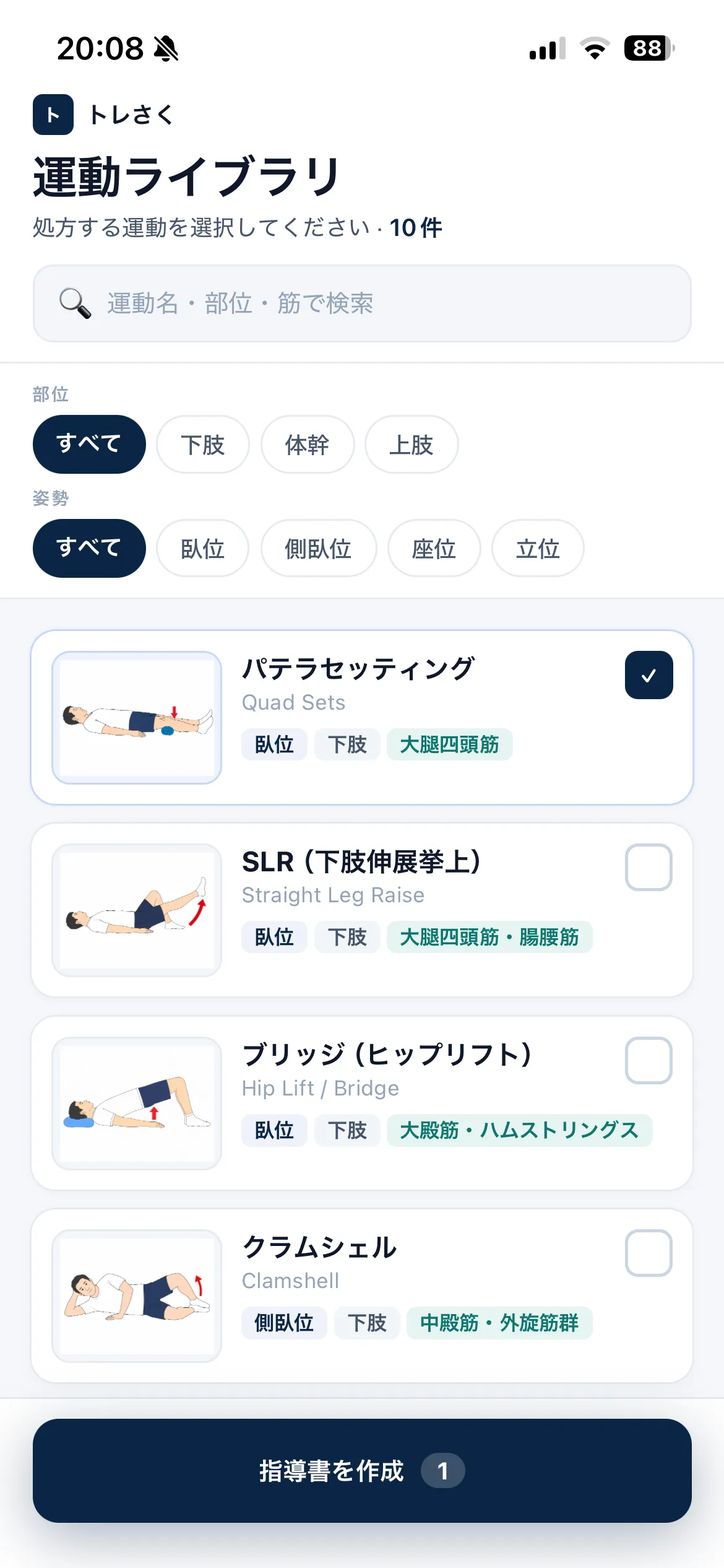
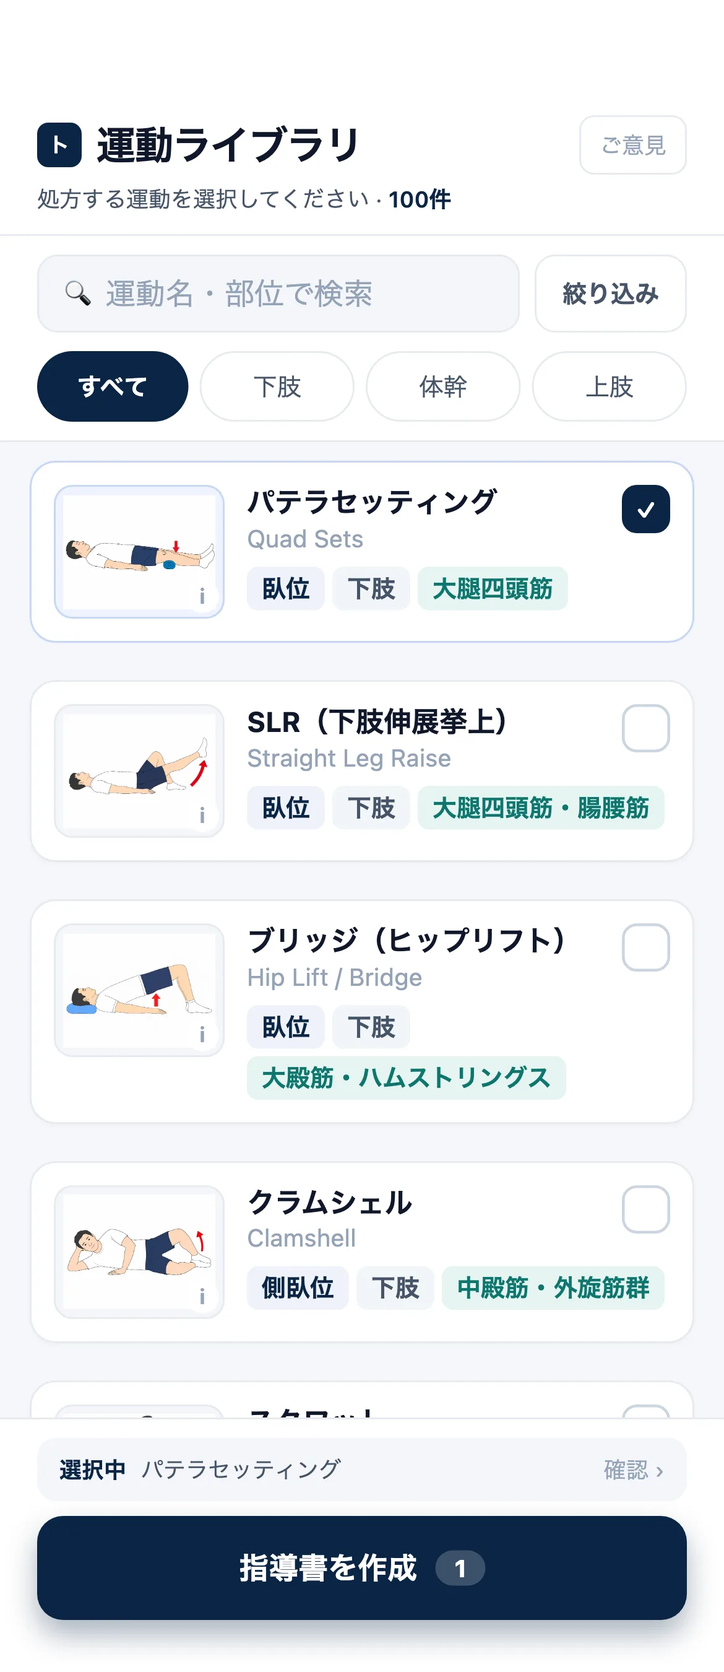
LP を改善し、スクショを現行 UI に撮り直した
医療系 LP の規範（一次情報調査）と、導入した landing-page-copy /
design-standards / accessibility-audit スキルに沿って LP を見直した。
基調デザイン（明朝 × teal × cream）は医療系の王道に合致しているため維持。

事実整合:
- 運動数の表記を実数の「100種類」に統一。本文は「50種類以上」と過小、
  JSON-LD は「100種類以上」と過大で、両方バラバラだった
- スクショが 2026-04-23 のままで「22件」「10件」と表示されており、
  ヒーロー直下に出した「100種類」と目立つ場所で矛盾していた
- deploy-web.yml 側の JSON-LD・llms.txt も同時に修正（二重保持のため）

コピー:
- 社会的証明バンドを新設（100種類 / 3ステップ / 現役 PT 開発 / 0円）。
  治療効果ではなく業務指標で語る
- 「最短3分」は計測しておらず根拠がないため全削除し、プロダクト構造の
  事実である「3ステップ」に置き換えた
- 効能・保証・予防を示唆する表現を事実ベースに修正
  （エビデンスに基づき安全に / 転倒予防 / 紙面で伝わります）

デザイン・A11y:
- 特徴カードの 6 色パステルアイコンを teal 単色に統一（DESIGN.md 準拠）
- 3 ステップの 1 番だけに付いていた選択済みの見た目を削除。クリックできない
  のに選べるリストに見えていた
- 見出し階層を修正（h2 導入 + 統計バンドに sr-only 見出し）
- FAQ を button 化し aria-expanded を同期、inline onclick を全廃
- prefers-reduced-motion 全面対応、focus-visible、CTA を 44px 高に
- App Store バッジの絶対パスを相対パスに（ローカルで 404 になっていた）

スクショ撮影の再現手順:
- scripts/shoot-lp-screenshots.cjs + lp-shots.json を追加。ヘッドレス
  Chrome を CDP で操作して Web 版から 3 枚撮る
- 加工・差し替え手順は docs/dev-notes.md に記載

未解決として plan.md に起票:
- iOS シミュレータ向けビルドが ReactCodegen のモジュール解決で失敗する
  （スクショは Web 版から撮って回避）

diff --git a/public/lp.html b/public/lp.html
@@ -25,7 +25,7 @@
 <meta name="twitter:description" content="医療・介護の現場で使える自主トレ指導書作成アプリ。完全無料・アカウント不要。"/>
 <meta name="twitter:image" content="https://toresaku-app.github.io/web/assets/og-image.png"/>
 <script type="application/ld+json">{"@context":"https://schema.org","@type":"SoftwareApplication","name":"トレさく","description":"医療・介護の現場で使える自主トレ指導書作成アプリ","url":"https://toresaku-app.github.io/web/","applicationCategory":"HealthApplication","operatingSystem":"Web, iOS","offers":{"@type":"Offer","price":"0","priceCurrency":"JPY"},"inLanguage":"ja","isAccessibleForFree":true}</script>
-<script type="application/ld+json">{"@context":"https://schema.org","@type":"FAQPage","mainEntity":[{"@type":"Question","name":"トレさくとは？","acceptedAnswer":{"@type":"Answer","text":"医療・介護の現場で使える自主トレ指導書作成アプリです。運動を選んで回数・セットを設定するだけで、イラスト付きA4指導書をPDF出力できます。"}},{"@type":"Question","name":"利用料金はかかりますか？","acceptedAnswer":{"@type":"Answer","text":"完全無料です。アカウント登録も不要で、すぐにお使いいただけます。"}},{"@type":"Question","name":"患者データはどうなりますか？","acceptedAnswer":{"@type":"Answer","text":"指導書に入力した内容と作成したPDFは、お使いの端末内で処理され、外部へ自動送信されません。Web版では、サービス改善のため、プライバシーポリシーに記載した利用状況をGoogleアナリティクスへ送信します。iOSアプリ版はアクセス解析を使用していません。"}},{"@type":"Question","name":"どのような運動が収録されていますか？","acceptedAnswer":{"@type":"Answer","text":"下肢・体幹・上肢の筋トレ・ストレッチを中心に100種類の運動を収録。パテラセッティング、SLR、ブリッジ、スクワットなど臨床で頻用される運動が揃っています。"}},{"@type":"Question","name":"オフラインで使えますか？","acceptedAnswer":{"@type":"Answer","text":"はい。インターネット接続がなくても全機能をお使いいただけます。"}},{"@type":"Question","name":"どの端末で使えますか？","acceptedAnswer":{"@type":"Answer","text":"Web版はPC・スマホのブラウザからご利用いただけます。iOSアプリはApp Storeで配信中です。"}}]}</script>
+<script type="application/ld+json">{"@context":"https://schema.org","@type":"FAQPage","mainEntity":[{"@type":"Question","name":"トレさくとは？","acceptedAnswer":{"@type":"Answer","text":"医療・介護の現場で使える自主トレ指導書作成アプリです。運動を選んで回数・セットを設定するだけで、イラスト付きA4指導書をPDF出力できます。"}},{"@type":"Question","name":"利用料金はかかりますか？","acceptedAnswer":{"@type":"Answer","text":"完全無料です。アカウント登録も不要で、すぐにお使いいただけます。広告も一切ありません。"}},{"@type":"Question","name":"患者データはどうなりますか？","acceptedAnswer":{"@type":"Answer","text":"指導書に入力した内容と作成したPDFは、お使いの端末内で処理され、外部へ自動送信されません。Web版では、サービス改善のため、プライバシーポリシーに記載した利用状況をGoogleアナリティクスへ送信します。iOSアプリ版はアクセス解析を使用していません。"}},{"@type":"Question","name":"どのような運動が収録されていますか？","acceptedAnswer":{"@type":"Answer","text":"下肢・体幹・上肢の筋トレ・ストレッチを中心に100種類の運動を収録。パテラセッティング、SLR、ブリッジ、スクワットなど臨床で頻用される運動が揃っています。"}},{"@type":"Question","name":"オフラインで使えますか？","acceptedAnswer":{"@type":"Answer","text":"はい。インターネット接続がなくても全機能をお使いいただけます。"}},{"@type":"Question","name":"どの端末で使えますか？","acceptedAnswer":{"@type":"Answer","text":"Web版はPC・スマホのブラウザからご利用いただけます。iOSアプリはApp Storeで配信中です。"}}]}</script>
 <script type="application/ld+json">{"@context":"https://schema.org","@type":"Organization","name":"トレさく","url":"https://toresaku-app.github.io/web/","logo":"https://toresaku-app.github.io/web/assets/icon-512.png","description":"医療・介護の現場で使える自主トレ指導書作成アプリ","contactPoint":{"@type":"ContactPoint","contactType":"customer support","email":"toresaku.app@gmail.com"}}</script>
 <script type="application/ld+json">{"@context":"https://schema.org","@type":"BreadcrumbList","itemListElement":[{"@type":"ListItem","position":1,"name":"トップ","item":"https://toresaku-app.github.io/web/"},{"@type":"ListItem","position":2,"name":"ランディングページ","item":"https://toresaku-app.github.io/web/lp.html"}]}</script>
 <link rel="preconnect" href="https://fonts.googleapis.com"/>
@@ -439,7 +439,7 @@ img { max-width: 100%; height: auto; display: block }
   cursor: default;
   border: 1.5px solid transparent;
 }
-.step:hover, .step.active {
+.step:hover {
   background: var(--cream);
   border-color: var(--border);
 }
@@ -453,9 +453,8 @@ img { max-width: 100%; height: auto; display: block }
   font-weight: 800; font-size: 16px;
   flex-shrink: 0;
 }
-.step.active .step-num {
-  background: var(--amber);
-  color: var(--white);
+.step:hover .step-num {
+  background: var(--teal);
 }
 .step-body h3 {
   font-family: var(--font-display);
@@ -820,15 +819,23 @@ a:focus-visible, button:focus-visible {
 }
 @media (prefers-reduced-motion: reduce) {
   html { scroll-behavior: auto }
+  *, *::before, *::after {
+    animation: none !important;
+    transition: none !important;
+  }
   .reveal {
     opacity: 1;
     transform: none;
-    transition: none;
   }
-  .gallery-track,
-  .gallery-track-reverse {
-    animation: none;
-  }
+}
+.sr-only {
+  position: absolute;
+  width: 1px; height: 1px;
+  padding: 0; margin: -1px;
+  overflow: hidden;
+  clip: rect(0, 0, 0, 0);
+  white-space: nowrap;
+  border: 0;
 }
 
 /* ── Responsive ── */
@@ -878,7 +885,7 @@ a:focus-visible, button:focus-visible {
       <div class="hero-cta-group">
         <a href="./" class="hero-cta-primary">Web版を使う</a>
         <a href="https://apps.apple.com/jp/app/%E3%83%88%E3%83%AC%E3%81%95%E3%81%8F/id6762547859" target="_blank" rel="noopener" style="display:inline-block">
-          <img src="/web/assets/lp/appstore-badge.svg" alt="App Storeからダウンロード" style="height:48px"/>
+          <img src="assets/lp/appstore-badge.svg" alt="App Storeからダウンロード" style="height:48px"/>
         </a>
       </div>
       <div class="hero-badges">
@@ -908,15 +915,26 @@ a:focus-visible, button:focus-visible {
   </div>
 </section>
 
+<!-- Stats band -->
+<section class="stats-band">
+  <h2 class="sr-only">トレさくの概要数値</h2>
+  <div class="stats-inner">
+    <div class="stat reveal reveal-delay-1"><div class="stat-num">100<span>種類</span></div><div class="stat-label">イラスト付き収録運動</div></div>
+    <div class="stat reveal reveal-delay-2"><div class="stat-num">3<span>ステップ</span></div><div class="stat-label">選ぶ・調整する・出力する</div></div>
+    <div class="stat reveal reveal-delay-3"><div class="stat-num">PT</div><div class="stat-label">現役理学療法士が開発・監修</div></div>
+    <div class="stat reveal reveal-delay-4"><div class="stat-num">0<span>円</span></div><div class="stat-label">完全無料・広告なし</div></div>
+  </div>
+</section>
+
 <!-- 3 Steps -->
 <section class="section-wrap steps-bg">
   <div class="section-inner">
     <div class="section-label reveal">HOW IT WORKS</div>
     <h2 class="section-title reveal">たった3ステップで完成</h2>
-    <p class="section-desc reveal">運動を選んで、パラメータを設定、PDFを出力。<br/>最短3分で指導書が完成します。</p>
+    <p class="section-desc reveal">運動を選んで、パラメータを設定、PDFを出力。<br/>この3ステップだけで指導書が完成します。</p>
     <div class="steps-grid">
       <div class="steps-list">
-        <div class="step active reveal reveal-delay-1">
+        <div class="step reveal reveal-delay-1">
           <div class="step-num">1</div>
           <div class="step-body">
             <h3>運動を選ぶ</h3>
@@ -953,34 +971,34 @@ a:focus-visible, button:focus-visible {
     <p class="section-desc reveal">現場の「あったらいいな」を形にしました</p>
     <div class="features-grid">
       <div class="feature-card reveal reveal-delay-1">
-        <div class="feature-icon fi-teal"><svg width="22" height="22" fill="none" stroke="currentColor" stroke-width="2" stroke-linecap="round" viewBox="0 0 24 24"><path d="M12 1v22M17 5H9.5a3.5 3.5 0 000 7h5a3.5 3.5 0 010 7H6"/></svg></div>
+        <div class="feature-icon"><svg width="22" height="22" fill="none" stroke="currentColor" stroke-width="2" stroke-linecap="round" viewBox="0 0 24 24"><path d="M12 1v22M17 5H9.5a3.5 3.5 0 000 7h5a3.5 3.5 0 010 7H6"/></svg></div>
         <h3>完全無料</h3>
         <p>全機能が無料で使えます。広告も一切表示されません。</p>
       </div>
       <div class="feature-card reveal reveal-delay-2">
-        <div class="feature-icon fi-emerald"><svg width="22" height="22" fill="none" stroke="currentColor" stroke-width="2" stroke-linecap="round" viewBox="0 0 24 24"><path d="M20 21v-2a4 4 0 00-4-4H8a4 4 0 00-4 4v2"/><circle cx="12" cy="7" r="4"/></svg></div>
+        <div class="feature-icon"><svg width="22" height="22" fill="none" stroke="currentColor" stroke-width="2" stroke-linecap="round" viewBox="0 0 24 24"><path d="M20 21v-2a4 4 0 00-4-4H8a4 4 0 00-4 4v2"/><circle cx="12" cy="7" r="4"/></svg></div>
         <h3>アカウント不要</h3>
         <p>登録なし、すぐに使い始められます。</p>
       </div>
       <div class="feature-card reveal reveal-delay-3">
-        <div class="feature-icon fi-violet"><svg width="22" height="22" fill="none" stroke="currentColor" stroke-width="2" stroke-linecap="round" viewBox="0 0 24 24"><rect x="5" y="2" width="14" height="20" rx="2"/><line x1="12" y1="18" x2="12" y2="18"/></svg></div>
+        <div class="feature-icon"><svg width="22" height="22" fill="none" stroke="currentColor" stroke-width="2" stroke-linecap="round" viewBox="0 0 24 24"><rect x="5" y="2" width="14" height="20" rx="2"/><line x1="12" y1="18" x2="12" y2="18"/></svg></div>
         <h3>オフライン対応</h3>
         <p>インターネット接続なしで全機能が使えます。</p>
       </div>
       <div class="feature-card reveal reveal-delay-1">
-        <div class="feature-icon fi-rose"><svg width="22" height="22" fill="none" stroke="currentColor" stroke-width="2" stroke-linecap="round" viewBox="0 0 24 24"><rect x="3" y="11" width="18" height="11" rx="2"/><path d="M7 11V7a5 5 0 0110 0v4"/></svg></div>
+        <div class="feature-icon"><svg width="22" height="22" fill="none" stroke="currentColor" stroke-width="2" stroke-linecap="round" viewBox="0 0 24 24"><rect x="3" y="11" width="18" height="11" rx="2"/><path d="M7 11V7a5 5 0 0110 0v4"/></svg></div>
         <h3>プライバシー保護</h3>
         <p>指導書の入力内容とPDFは端末内で処理。外部へ自動送信されません。</p>
       </div>
       <div class="feature-card reveal reveal-delay-2">
-        <div class="feature-icon fi-sky"><svg width="22" height="22" fill="none" stroke="currentColor" stroke-width="2" stroke-linecap="round" viewBox="0 0 24 24"><path d="M14 2H6a2 2 0 00-2 2v16a2 2 0 002 2h12a2 2 0 002-2V8z"/><polyline points="14,2 14,8 20,8"/><line x1="16" y1="13" x2="8" y2="13"/><line x1="16" y1="17" x2="8" y2="17"/></svg></div>
-        <h3>50種類以上の運動</h3>
-        <p>下肢・体幹・上肢の筋トレ・ストレッチを収録。</p>
+        <div class="feature-icon"><svg width="22" height="22" fill="none" stroke="currentColor" stroke-width="2" stroke-linecap="round" viewBox="0 0 24 24"><path d="M14 2H6a2 2 0 00-2 2v16a2 2 0 002 2h12a2 2 0 002-2V8z"/><polyline points="14,2 14,8 20,8"/><line x1="16" y1="13" x2="8" y2="13"/><line x1="16" y1="17" x2="8" y2="17"/></svg></div>
+        <h3>100種類の運動</h3>
+        <p>臨床で頻用される下肢・体幹・上肢の運動から、患者さんに合うメニューを選べます。</p>
       </div>
       <div class="feature-card reveal reveal-delay-3">
-        <div class="feature-icon fi-amber"><svg width="22" height="22" fill="none" stroke="currentColor" stroke-width="2" stroke-linecap="round" viewBox="0 0 24 24"><rect x="3" y="3" width="18" height="18" rx="2"/><circle cx="8.5" cy="8.5" r="1.5"/><polyline points="21,15 16,10 5,21"/></svg></div>
+        <div class="feature-icon"><svg width="22" height="22" fill="none" stroke="currentColor" stroke-width="2" stroke-linecap="round" viewBox="0 0 24 24"><rect x="3" y="3" width="18" height="18" rx="2"/><circle cx="8.5" cy="8.5" r="1.5"/><polyline points="21,15 16,10 5,21"/></svg></div>
         <h3>イラスト付き</h3>
-        <p>全運動にわかりやすいイラスト付き。</p>
+        <p>全運動にイラスト付き。口頭では伝わりにくい動きも、紙面で伝えやすくなります。</p>
       </div>
     </div>
   </div>
@@ -1057,7 +1075,7 @@ a:focus-visible, button:focus-visible {
       </div>
     </div>
   </div>
-  <p class="gallery-count reveal">筋トレ・ストレッチ・バランス訓練など<br/><strong>50</strong>種類以上を収録</p>
+  <p class="gallery-count reveal">筋トレ・ストレッチ・バランス訓練など<br/><strong>100</strong>種類を収録</p>
 </section>
 
 <!-- Scenes -->
@@ -1092,7 +1110,7 @@ a:focus-visible, button:focus-visible {
         <img src="assets/lp/scene-group.webp" alt="介護予防" loading="lazy"/>
         <div class="scene-card-body">
           <h3>介護予防・通所</h3>
-          <p>高齢者向けの転倒予防・筋力維持プログラム作成に。イラスト付きでわかりやすい指導書に。</p>
+          <p>高齢者向けの運動プログラム作成に。イラスト付きでわかりやすい指導書に。</p>
         </div>
       </div>
     </div>
@@ -1106,7 +1124,7 @@ a:focus-visible, button:focus-visible {
       <img class="supervision-img" src="assets/lp/pt-portrait.webp" alt="監修理学療法士"/>
       <div class="supervision-body">
         <h2>現役理学療法士が開発・監修</h2>
-        <p>収録されている運動メニュー・指導内容は、臨床経験を持つ現役の理学療法士が開発・監修しています。エビデンスに基づいた運動を厳選し、安全にご利用いただけるよう配慮しています。</p>
+        <p>収録されている運動メニュー・指導内容は、臨床経験を持つ現役の理学療法士が開発・監修し、現場で頻用される運動から厳選しています。</p>
       </div>
     </div>
   </div>
@@ -1119,46 +1137,46 @@ a:focus-visible, button:focus-visible {
     <h2 class="section-title reveal">よくある質問</h2>
     <div class="faq-list reveal">
       <div class="faq-item open">
-        <div class="faq-q" onclick="this.parentElement.classList.toggle('open')">
+        <button type="button" class="faq-q" aria-expanded="true" aria-controls="faq-a-1" id="faq-q-1">
           トレさくとは？
-          <div class="faq-toggle"><svg viewBox="0 0 24 24" stroke-linecap="round"><line x1="12" y1="5" x2="12" y2="19"/><line x1="5" y1="12" x2="19" y2="12"/></svg></div>
-        </div>
-        <div class="faq-a">医療・介護の現場で使える自主トレ指導書作成アプリです。運動を選んで回数・セットを設定するだけで、イラスト付きA4指導書をPDF出力できます。</div>
+          <span class="faq-toggle"><svg viewBox="0 0 24 24" stroke-linecap="round"><line x1="12" y1="5" x2="12" y2="19"/><line x1="5" y1="12" x2="19" y2="12"/></svg></span>
+        </button>
+        <div class="faq-a" id="faq-a-1" role="region" aria-labelledby="faq-q-1">医療・介護の現場で使える自主トレ指導書作成アプリです。運動を選んで回数・セットを設定するだけで、イラスト付きA4指導書をPDF出力できます。</div>
       </div>
       <div class="faq-item">
-        <div class="faq-q" onclick="this.parentElement.classList.toggle('open')">
+        <button type="button" class="faq-q" aria-expanded="false" aria-controls="faq-a-2" id="faq-q-2">
           利用料金はかかりますか？
-          <div class="faq-toggle"><svg viewBox="0 0 24 24" stroke-linecap="round"><line x1="12" y1="5" x2="12" y2="19"/><line x1="5" y1="12" x2="19" y2="12"/></svg></div>
-        </div>
-        <div class="faq-a">完全無料です。アカウント登録も不要で、すぐにお使いいただけます。広告も一切ありません。</div>
+          <span class="faq-toggle"><svg viewBox="0 0 24 24" stroke-linecap="round"><line x1="12" y1="5" x2="12" y2="19"/><line x1="5" y1="12" x2="19" y2="12"/></svg></span>
+        </button>
+        <div class="faq-a" id="faq-a-2" role="region" aria-labelledby="faq-q-2">完全無料です。アカウント登録も不要で、すぐにお使いいただけます。広告も一切ありません。</div>
       </div>
       <div class="faq-item">
-        <div class="faq-q" onclick="this.parentElement.classList.toggle('open')">
+        <button type="button" class="faq-q" aria-expanded="false" aria-controls="faq-a-3" id="faq-q-3">
           患者データはどうなりますか？
-          <div class="faq-toggle"><svg viewBox="0 0 24 24" stroke-linecap="round"><line x1="12" y1="5" x2="12" y2="19"/><line x1="5" y1="12" x2="19" y2="12"/></svg></div>
-        </div>
-        <div class="faq-a">指導書に入力した内容と作成したPDFは、お使いの端末内で処理され、外部へ自動送信されません。Web版では、サービス改善のため、プライバシーポリシーに記載した利用状況をGoogleアナリティクスへ送信します。iOSアプリ版はアクセス解析を使用していません。</div>
+          <span class="faq-toggle"><svg viewBox="0 0 24 24" stroke-linecap="round"><line x1="12" y1="5" x2="12" y2="19"/><line x1="5" y1="12" x2="19" y2="12"/></svg></span>
+        </button>
+        <div class="faq-a" id="faq-a-3" role="region" aria-labelledby="faq-q-3">指導書に入力した内容と作成したPDFは、お使いの端末内で処理され、外部へ自動送信されません。Web版では、サービス改善のため、プライバシーポリシーに記載した利用状況をGoogleアナリティクスへ送信します。iOSアプリ版はアクセス解析を使用していません。</div>
       </div>
       <div class="faq-item">
-        <div class="faq-q" onclick="this.parentElement.classList.toggle('open')">
+        <button type="button" class="faq-q" aria-expanded="false" aria-controls="faq-a-4" id="faq-q-4">
           どのような運動が収録されていますか？
-          <div class="faq-toggle"><svg viewBox="0 0 24 24" stroke-linecap="round"><line x1="12" y1="5" x2="12" y2="19"/><line x1="5" y1="12" x2="19" y2="12"/></svg></div>
-        </div>
-        <div class="faq-a">下肢・体幹・上肢の筋トレ・ストレッチを中心に50種類以上の運動を収録。パテラセッティング、SLR、ブリッジ、スクワット、プランクなど臨床で頻用される運動が揃っています。</div>
+          <span class="faq-toggle"><svg viewBox="0 0 24 24" stroke-linecap="round"><line x1="12" y1="5" x2="12" y2="19"/><line x1="5" y1="12" x2="19" y2="12"/></svg></span>
+        </button>
+        <div class="faq-a" id="faq-a-4" role="region" aria-labelledby="faq-q-4">下肢・体幹・上肢の筋トレ・ストレッチを中心に100種類の運動を収録。パテラセッティング、SLR、ブリッジ、スクワットなど臨床で頻用される運動が揃っています。</div>
       </div>
       <div class="faq-item">
-        <div class="faq-q" onclick="this.parentElement.classList.toggle('open')">
+        <button type="button" class="faq-q" aria-expanded="false" aria-controls="faq-a-5" id="faq-q-5">
           オフラインで使えますか？
-          <div class="faq-toggle"><svg viewBox="0 0 24 24" stroke-linecap="round"><line x1="12" y1="5" x2="12" y2="19"/><line x1="5" y1="12" x2="19" y2="12"/></svg></div>
-        </div>
-        <div class="faq-a">はい。インターネット接続がなくても全機能をお使いいただけます。</div>
+          <span class="faq-toggle"><svg viewBox="0 0 24 24" stroke-linecap="round"><line x1="12" y1="5" x2="12" y2="19"/><line x1="5" y1="12" x2="19" y2="12"/></svg></span>
+        </button>
+        <div class="faq-a" id="faq-a-5" role="region" aria-labelledby="faq-q-5">はい。インターネット接続がなくても全機能をお使いいただけます。</div>
       </div>
       <div class="faq-item">
-        <div class="faq-q" onclick="this.parentElement.classList.toggle('open')">
+        <button type="button" class="faq-q" aria-expanded="false" aria-controls="faq-a-6" id="faq-q-6">
           どの端末で使えますか？
-          <div class="faq-toggle"><svg viewBox="0 0 24 24" stroke-linecap="round"><line x1="12" y1="5" x2="12" y2="19"/><line x1="5" y1="12" x2="19" y2="12"/></svg></div>
-        </div>
-        <div class="faq-a">Web版はPC・スマホのブラウザからご利用いただけます。iOSアプリはApp Storeで配信中です。</div>
+          <span class="faq-toggle"><svg viewBox="0 0 24 24" stroke-linecap="round"><line x1="12" y1="5" x2="12" y2="19"/><line x1="5" y1="12" x2="19" y2="12"/></svg></span>
+        </button>
+        <div class="faq-a" id="faq-a-6" role="region" aria-labelledby="faq-q-6">Web版はPC・スマホのブラウザからご利用いただけます。iOSアプリはApp Storeで配信中です。</div>
       </div>
     </div>
   </div>
@@ -1172,7 +1190,7 @@ a:focus-visible, button:focus-visible {
     <div style="display:flex;gap:16px;align-items:center;justify-content:center;flex-wrap:wrap">
       <a href="./" class="final-cta-btn">Web版を使う</a>
       <a href="https://apps.apple.com/jp/app/%E3%83%88%E3%83%AC%E3%81%95%E3%81%8F/id6762547859" target="_blank" rel="noopener" style="display:inline-block">
-        <img src="/web/assets/lp/appstore-badge.svg" alt="App Storeからダウンロード" style="height:48px"/>
+        <img src="assets/lp/appstore-badge.svg" alt="App Storeからダウンロード" style="height:48px"/>
       </a>
     </div>
   </div>
@@ -1211,6 +1229,15 @@ const observer = new IntersectionObserver((entries) => {
   });
 }, { threshold: 0.12, rootMargin: '0px 0px -40px 0px' });
 reveals.forEach(el => observer.observe(el));
+
+// FAQ toggle
+document.querySelectorAll('.faq-q').forEach(btn => {
+  btn.addEventListener('click', () => {
+    const item = btn.parentElement;
+    const isOpen = item.classList.toggle('open');
+    btn.setAttribute('aria-expanded', isOpen ? 'true' : 'false');
+  });
+});
 </script>
 </body>
 </html>

diff --git a/docs/dev-notes.md b/docs/dev-notes.md
@@ -30,6 +30,52 @@
 
 **新しい画像は両方に置く**。片方だけだとどちらかの環境で表示されない。
 
+lp.html 内の画像パスは**相対パス**（`assets/lp/...`）で書く。`/web/assets/...` と絶対で書くと
+本番（`/web/lp.html` 配信）では通るがローカルプレビューで 404 になる。
+
+---
+
+## LP のスクショを撮り直す手順
+
+アプリ UI を変えたら LP のスクショも古くなる。**運動数・フィルタ・パラメータが写り込む**ので、
+これらを変更したら必ず撮り直す（2026-08-06 に「22 件」表示のまま 3 ヶ月放置していた前例あり）。
+
+対象は 3 枚。すべて Web 版から撮る（iOS 実機・シミュレータは不要）。
+
+| ファイル | 画面 | サイズ |
+|---|---|---|
+| `app-pc.png` | 運動ライブラリ（4 種選択） | 1470×798 @2x |
+| `app-library.webp` | 運動ライブラリ（1 種選択） | 390×844 @3x |
+| `app-preview.webp` | 内容を調整（3 種目） | 390×844 @3x |
+
+```bash
+npx expo start --web --port 8081        # 別ターミナルで起動しておく
+node scripts/shoot-lp-screenshots.cjs   # scripts/.lp-shots-out/ に PNG が出る
+```
+
+撮る画面・選択する運動・遷移先は `scripts/lp-shots.json` で定義する。
+ショットごとに localStorage をクリアするので、前のショットの選択状態は持ち越さない。
+
+撮影後の加工:
+
+1. **スマホ 2 枚は上端に白帯 168px を足す**。lp.html のスマホ枠は CSS でノッチ（`.mockup-phone-island`）を
+   描いており、Web 版のスクショには iOS ステータスバーが無いため、足さないとノッチが画面上端の見出しに被る
+   ```bash
+   python3 -c "
+   from PIL import Image
+   for n in ['app-library','app-preview']:
+       im=Image.open(f'scripts/.lp-shots-out/{n}.png').convert('RGB')
+       out=Image.new('RGB',(im.width,im.height+168),(255,255,255)); out.paste(im,(0,168))
+       out.save(f'scripts/.lp-shots-out/{n}-band.png')"
+   ```
+2. WebP 化して両ディレクトリへ配置（`app-pc.png` は PNG のまま `public/` のみ）
+   ```bash
+   cwebp -q 82 scripts/.lp-shots-out/app-library-band.png -o public/assets/lp/app-library.webp
+   cwebp -q 82 scripts/.lp-shots-out/app-preview-band.png -o public/assets/lp/app-preview.webp
+   cp public/assets/lp/app-{library,preview}.webp assets/lp/
+   cp scripts/.lp-shots-out/app-pc.png public/assets/lp/app-pc.png
+   ```
+
 ---
 
 ## 運動データの追加手順

diff --git a/docs/decisions.md b/docs/decisions.md
@@ -64,6 +64,15 @@
 - 公式バッジ（日本語・白版 SVG）を `public/assets/lp/appstore-badge.svg` に配置
 - 黒版も `appstore-badge-black.svg` として保存済み（未使用、明るい背景用）
 
+## LP の基調デザインは維持、社会的証明は業務指標で作る（2026-08-05）
+
+- **検討**: LP デザイン改善時、医療系 LP の規範（白ベース + 青緑アクセント）への全面刷新も検討した
+- **決定**: 既存の明朝（Shippori Mincho）× teal × cream の基調は**維持**。医療系の「青緑=信頼・安心」の王道に既に合致しており、全面変更はリスクの方が大きい
+- **社会的証明**: 治療効果ではなく**業務指標**（収録 100 種類 / 3 ステップ / 現役 PT 開発 / 0 円）で語る。競合 RiGAKU サポも同方針
+- **数字は検証可能なものだけ**: 利用者の声・導入数は実データがないため載せない（捏造禁止）。「最短 3 分で作成」も計測していないため 2026-08-05 に全削除し、「3 ステップ」（プロダクト構造の事実）に置き換えた。所要時間を訴求したくなったら、先に実測すること
+- **運動数の表記**: 実数が 100 ちょうどなので「100 種類」とし「〜以上」は付けない
+- **却下した案**: 派手なモーション演出系のスキル/装飾（医療系の清潔感と不適合）、特徴カードの多色パステルアイコン（DESIGN.md「色数を増やさない」に違反 → teal 単色に統一）
+
 ---
 
 # 3. インフラ・開発フロー

diff --git a/plan.md b/plan.md
@@ -68,3 +68,5 @@
 
 #### 優先度 低 — あると嬉しい
 7. [共有方法の拡充（ローカル完結）](./tasks/phase5-sharing.md) — 1ページ2種目レイアウト、画像出力等。現行のPDF共有で最低限は満たしている
+8. **iOS シミュレータ向けビルドの修復**（2026-08-06 発見） — `xcodebuild -workspace ios/app.xcworkspace -scheme app` が Pods の ReactCodegen「Generate Specs」フェーズで `Cannot find module '@react-native/codegen/package.json'` により失敗する。モジュール自体は node_modules に実在するため、Xcode から使われる node のパス（`ios/.xcode.env`）まわりのモジュール解決問題。LP スクショは Web 版から撮って回避済みだが、実機ビルド・EAS 前のローカル確認ができない状態
+9. **LP ステップ節のインタラクティブ化**（任意） — 「たった3ステップで完成」の 1〜3 は現在クリックできない。クリックで対応スクショを出し分けるなら、ステップごとのスクショ計3枚が必要（[scripts/shoot-lp-screenshots.cjs](./scripts/shoot-lp-screenshots.cjs) で撮れる）
